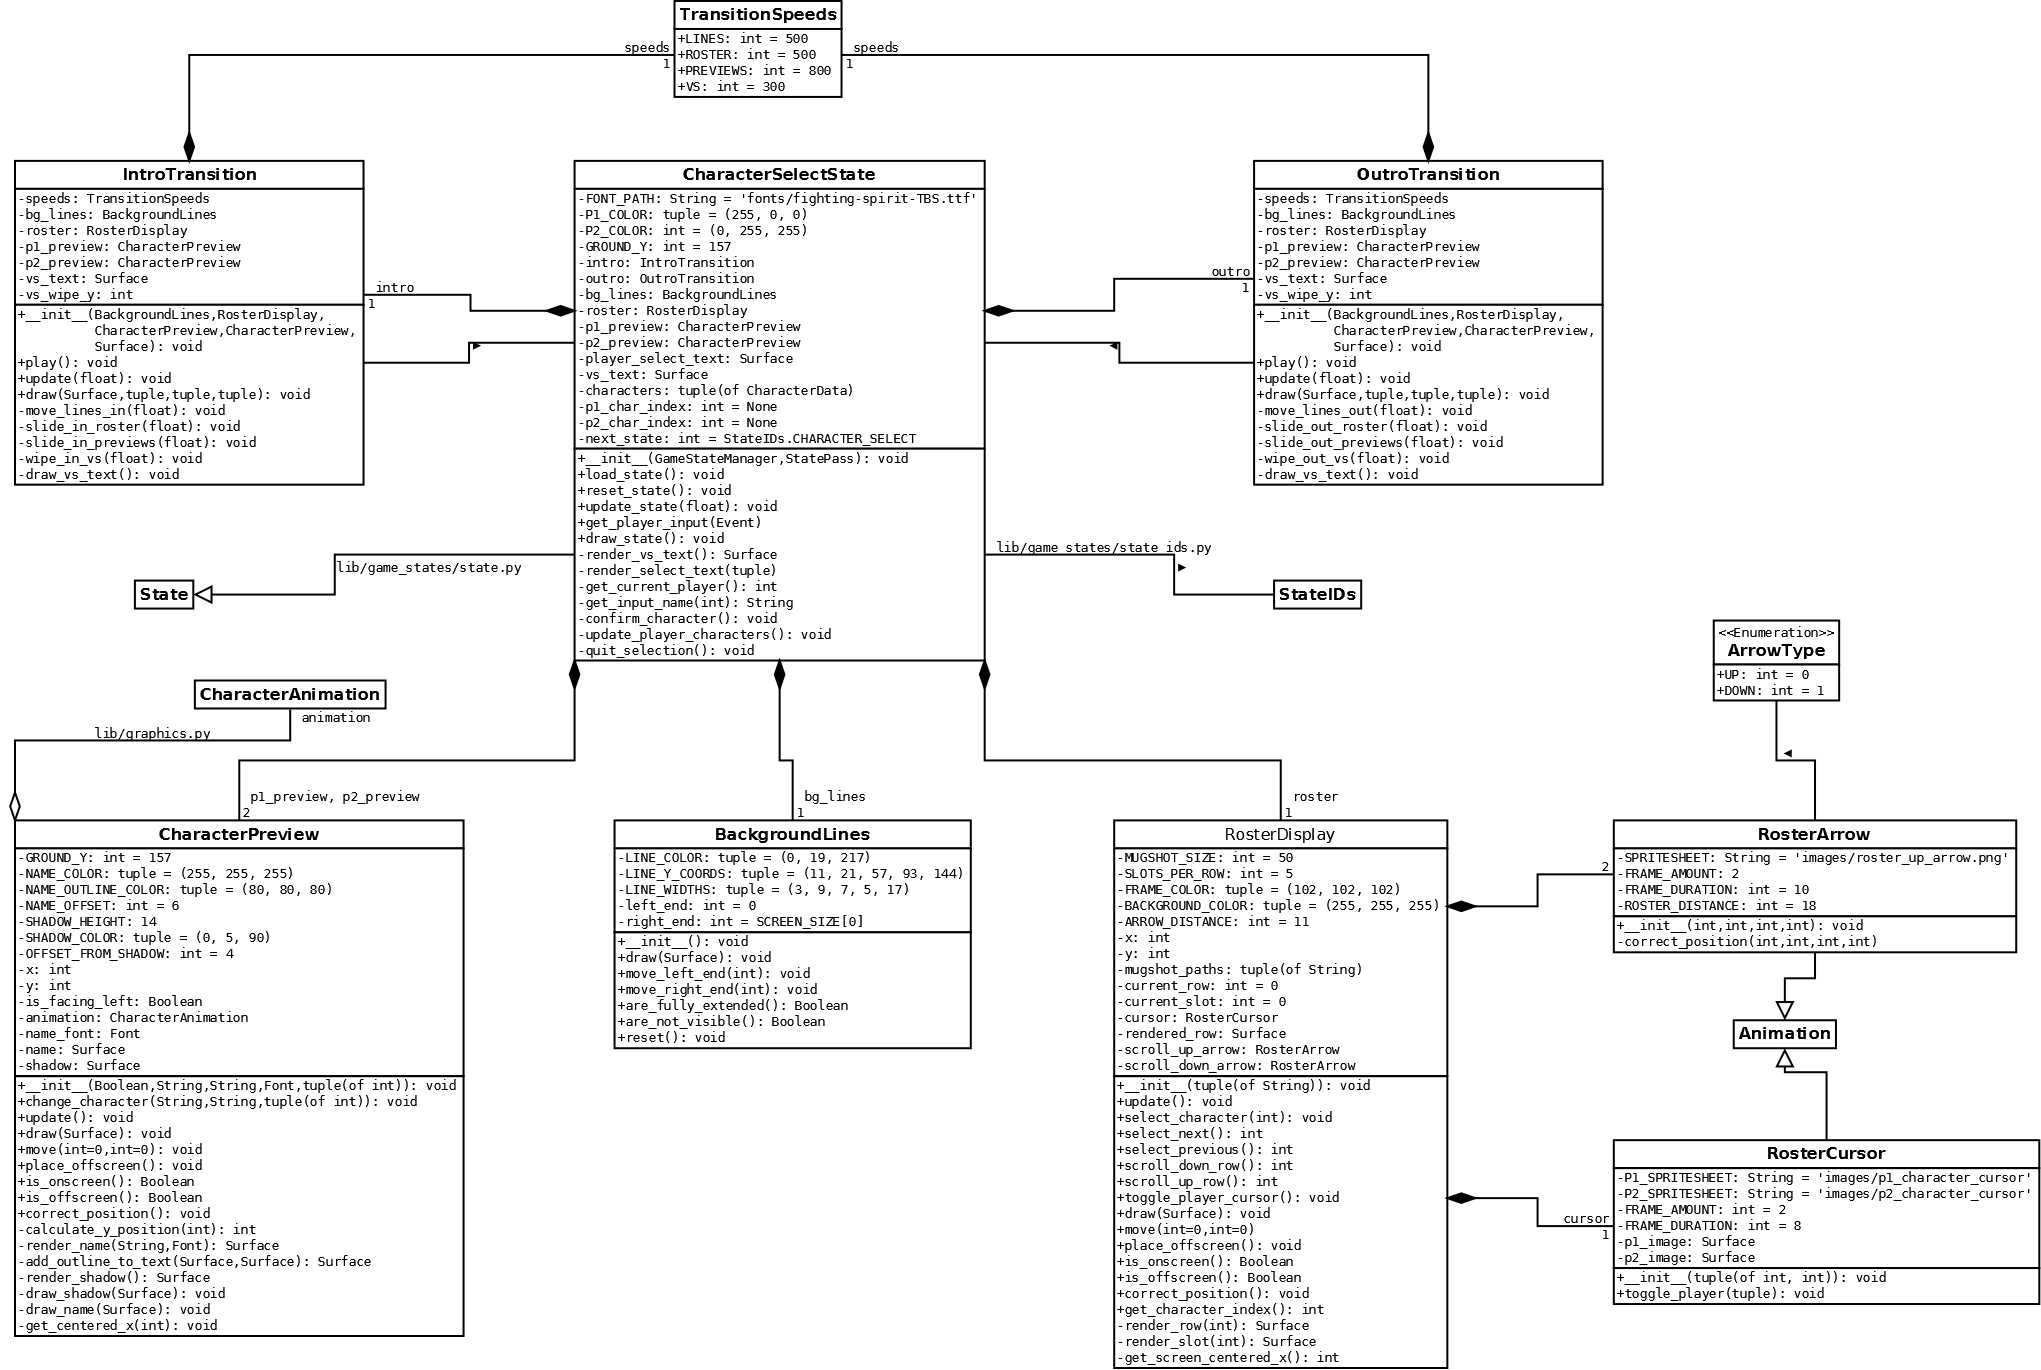
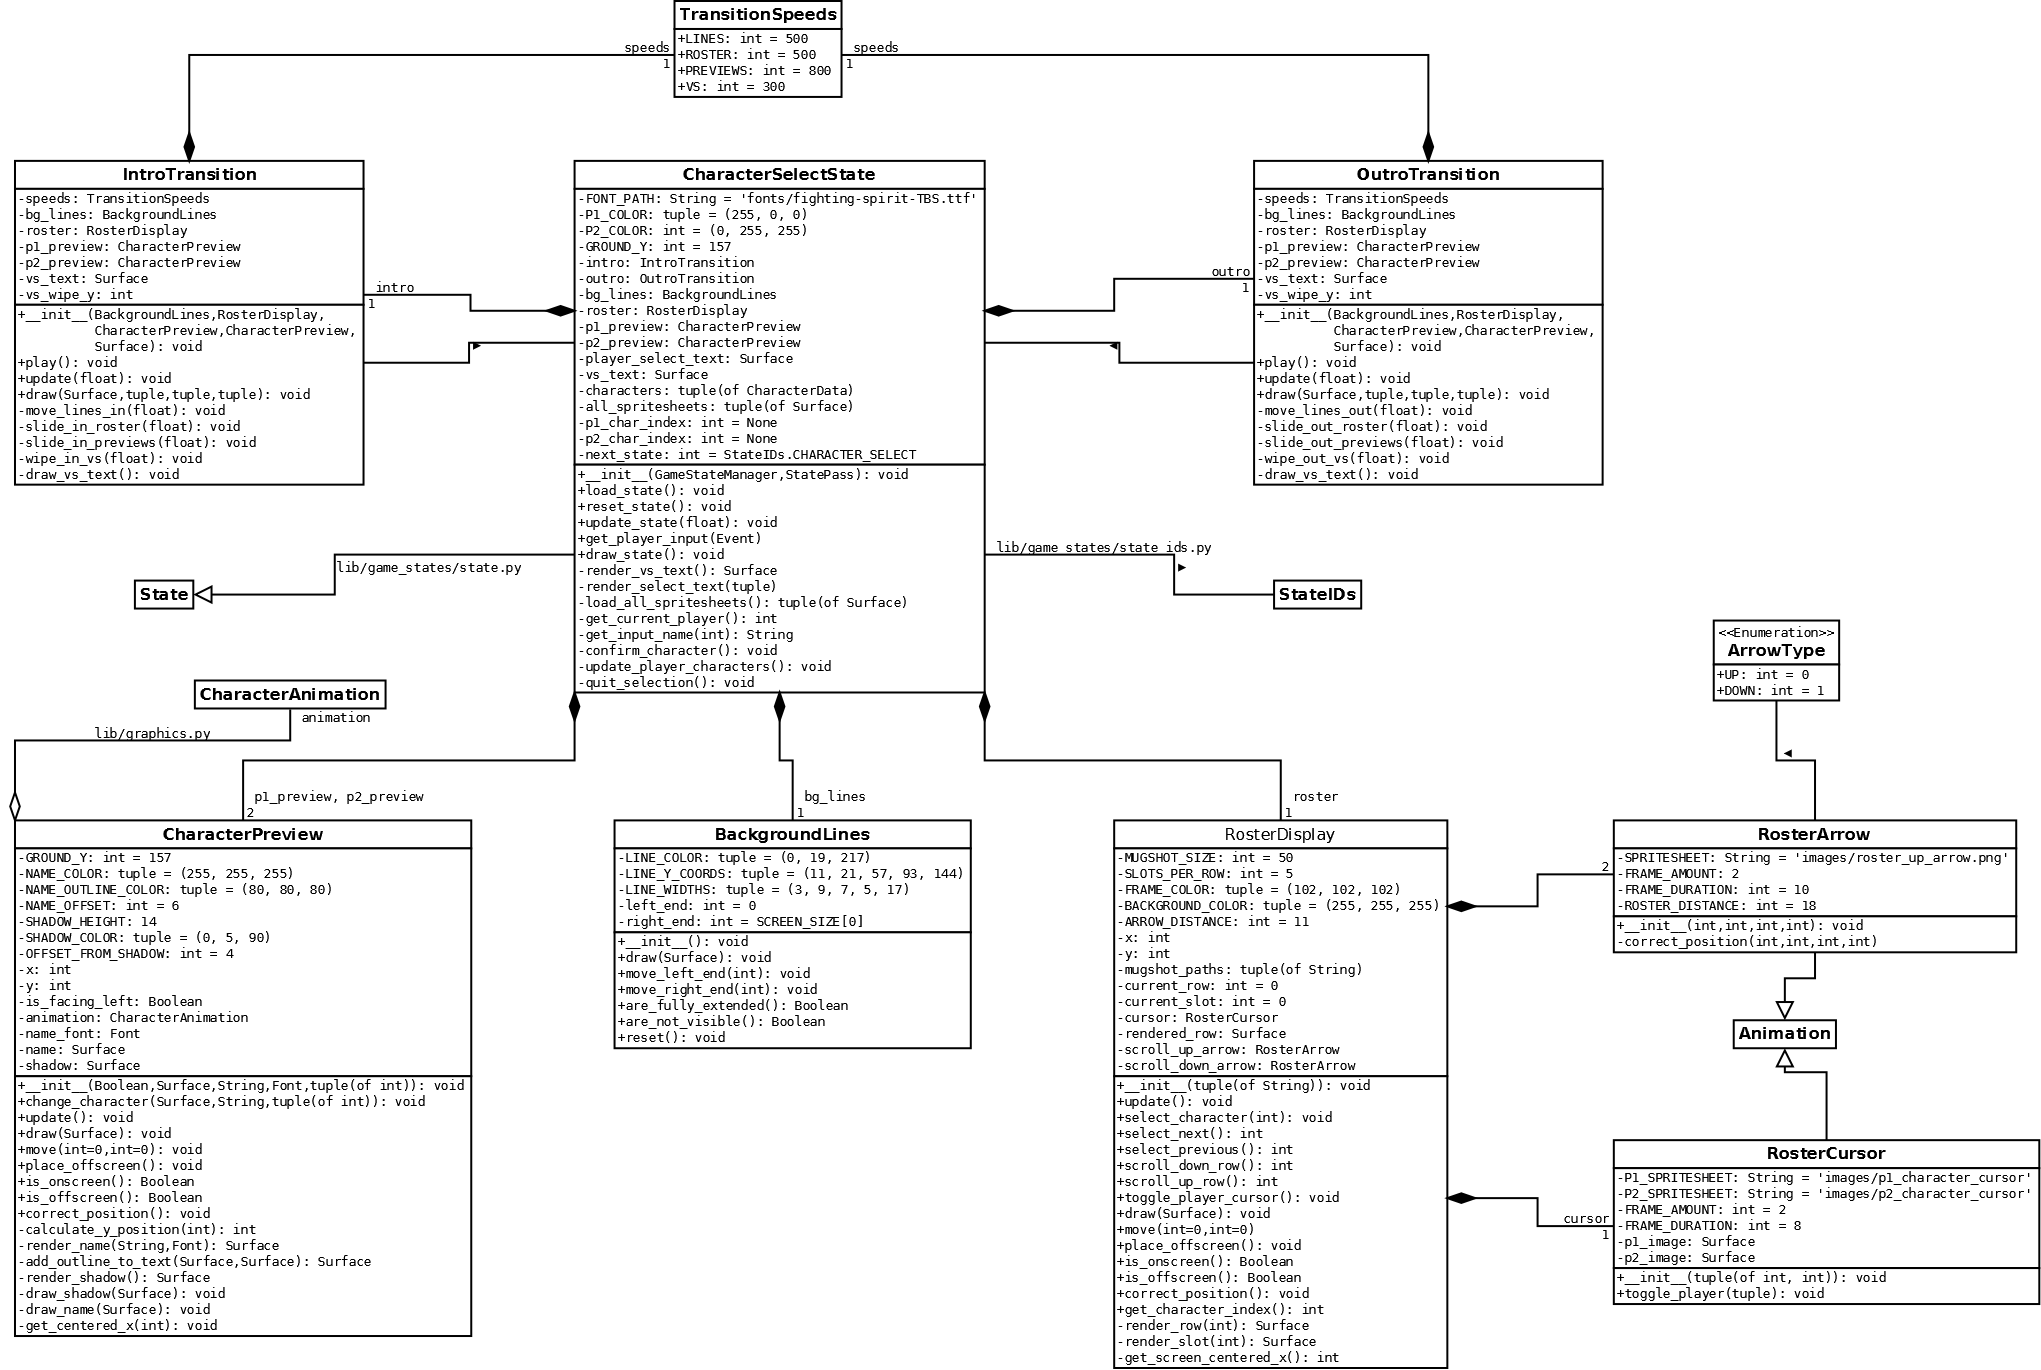
CharacterAnimation:Pass image instead of filepath
On the character select screen, having to load each spritesheet from
file every time an animation switches to another character could cause
serious performance issues, especially if the players.

By passing an already-loaded spritesheet to CharacterAnimation instead,
all of the spritesheets can be loaded once per game through
CharacterSelectState's load_state() and load_all_spritesheets()
methods and then passed to the CharacterPreviews when needed.

diff --git a/lib/game_states/character_select_state.py b/lib/game_states/character_select_state.py
@@ -53,7 +53,7 @@ class RosterDisplay():
         self.y = SCREEN_SIZE[1] - self.rendered_row.get_height()
         self.current_row = 0
         self.current_slot = 0
-        #self.cursor = RosterCursor((self.x, self.y))
+        self.cursor = RosterCursor((self.x, self.y))
         self.scroll_up_arrow = RosterArrow(ArrowType.UP, self.x, self.y,
                                            self.rendered_row.get_width(),
                                            self.rendered_row.get_height())
@@ -313,16 +313,16 @@ class CharacterPreview(object):
     SHADOW_COLOR = (0, 5, 90)
     OFFSET_FROM_SHADOW = 4
 
-    def __init__(self, is_facing_left, spritesheet_path, name,
-                 name_font, frame_durations):
+    def __init__(self, is_facing_left, spritesheet, name, name_font,
+                 frame_durations):
         """Declare and initialize instance variables.
 
         Args:
             is_facing_left: A Boolean indicating whether the character
                 is facing to the left, rather than to the right (which
                 is the default direction for characters in this game).
-            spritesheet_path: A String for the file path to the
-                animation's sprite sheet image.
+            spritesheet_path: A Surface containing the character
+                animation's spritesheet image.
             name: A String for the character's name.
             name_font: The PyGame font used for rendering the
                 character's name.
@@ -334,8 +334,7 @@ class CharacterPreview(object):
         """
         self.is_facing_left = is_facing_left
         self.animation = CharacterAnimation(is_facing_left,
-                                            spritesheet_path,
-                                            frame_durations)
+                                            spritesheet, frame_durations)
         self.name_font = name_font
         self.name = self.render_name(name)
         self.shadow = self.render_shadow()
@@ -345,12 +344,12 @@ class CharacterPreview(object):
         if is_facing_left:
             self.correct_position()
 
-    def change_character(self, spritesheet_path, name, frame_durations):
+    def change_character(self, spritesheet, name, frame_durations):
         """Display a different character animation.
 
         Args:
-            spritesheet_path: A String for the file path to the
-                animation's sprite sheet image.
+            spritesheet_path: A Surface containing the character
+                animation's spritesheet image.
             name: A String for the character's name.
             frame_durations: A tuple of integers containing the
                 duration, in update cycles, of each animation frame in
@@ -358,8 +357,7 @@ class CharacterPreview(object):
                 first animation frame is shown for 10 update cycles,
                 the second frame for 8 update cycles, and so on.
         """
-        self.animation.change_animation(spritesheet_path,
-                                        frame_durations)
+        self.animation.change_animation(spritesheet, frame_durations)
         self.name = self.render_name(name)
         self.shadow = self.render_shadow()
         self.x = 0

diff --git a/lib/graphics.py b/lib/graphics.py
@@ -310,15 +310,15 @@ class CharacterAnimation(object):
         frame_timer: An integer for the number of update cycles elapsed
             since the current animation frame was shown.
     """
-    def __init__(self, is_facing_left, spritesheet_path, frame_durations):
+    def __init__(self, is_facing_left, spritesheet, frame_durations):
         """Declare and initialize instance variables:
 
         Args:
             is_facing_left: A Boolean indicating whether the character
                 is facing to the left, rather than to the right (which
                 is the default direction for characters in this game).
-            spritesheet_path: A String for the file path to the
-                animation's sprite sheet image.
+            spritesheet_path: A Surface containing the animation's
+                spritesheet image.
             frame_width: An integer for the width, in pixels, of each
                 frame in the animation sprite sheet.
             frame_durations: A tuple of integers containing the
@@ -327,7 +327,7 @@ class CharacterAnimation(object):
                 first animation frame is shown for 10 update cycles,
                 the second frame for 8 update cycles, and so on.
         """
-        self.spritesheet = image.load(spritesheet_path).convert_alpha()
+        self.spritesheet = spritesheet
         self.is_facing_left = False
         self.frame_durations = frame_durations
         self.current_frame = 0
@@ -335,12 +335,12 @@ class CharacterAnimation(object):
         if is_facing_left:
             self.flip_sprite()
 
-    def change_animation(self, spritesheet_path, frame_durations):
+    def change_animation(self, spritesheet, frame_durations):
         """Display a different animation.
 
         Args:
-            spritesheet_path: A String for the file path to the
-                animation's sprite sheet image.
+            spritesheet: A Surface containing the animation's
+                spritesheet image.
             frame_durations: A tuple of integers containing the
                 duration, in update cycles, of each animation frame in
                 order. For example, passing (10, 8, 5) means that the
@@ -348,7 +348,7 @@ class CharacterAnimation(object):
                 the second frame for 8 update cycles, and so on.
         """
         self.frame_durations = frame_durations
-        self.spritesheet = image.load(spritesheet_path).convert_alpha()
+        self.spritesheet = spritesheet
         self.current_frame = 0
         self.frame_timer = 0
         if self.is_facing_left:
